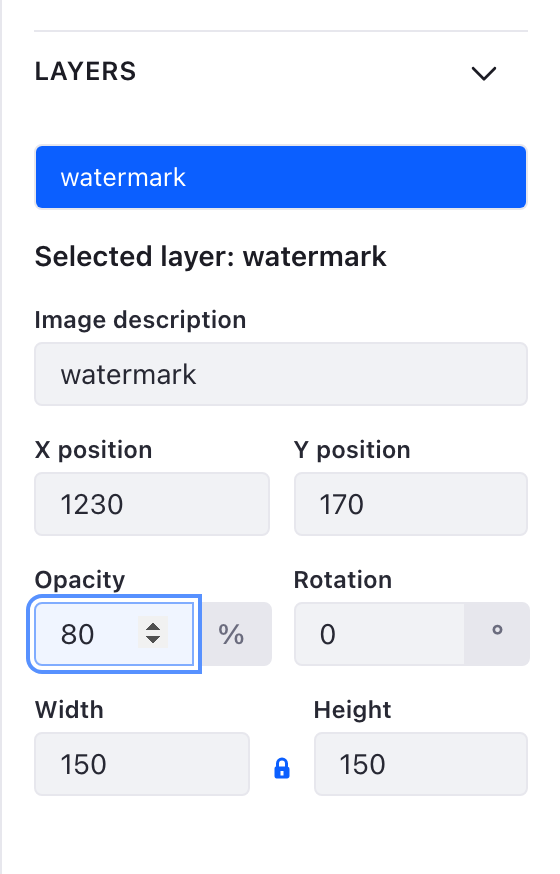
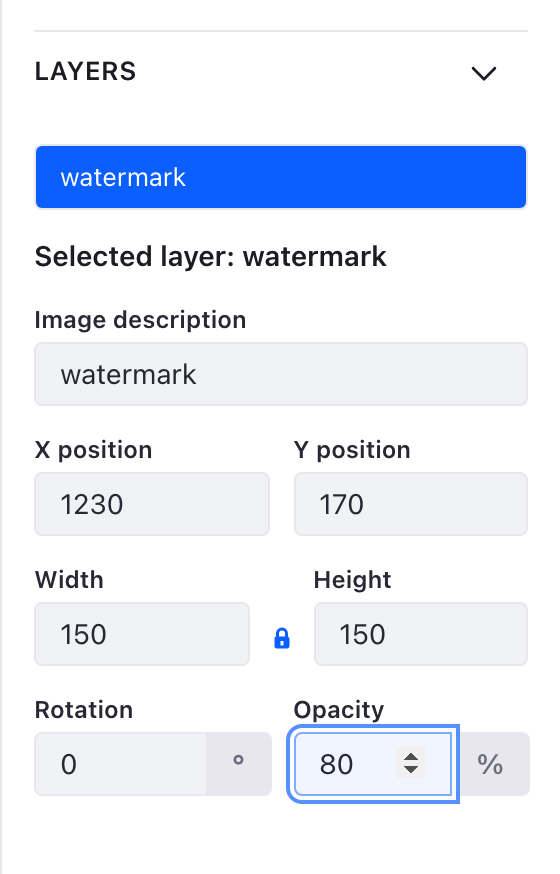
Square up the layer properties grid

diff --git a/src/components/LayerProperties.tsx b/src/components/LayerProperties.tsx
@@ -19,7 +19,7 @@ import {
 	isBoxOverlay,
 } from '../state/types';
 import {FONT_FAMILIES} from '../textFonts';
-import {ColorField, NumberField, TextField} from './fields';
+import {BorderField, ColorField, NumberField, TextField} from './fields';
 
 interface LayerPropertiesProps {
 	dispatch: (action: EditorAction) => void;
@@ -75,6 +75,20 @@ export function LayerProperties({dispatch, onAnnounce, overlay}: LayerProperties
 				: {height: value, width: other}
 		);
 	};
+
+	const pairedWithColor = hasColor(overlay) || overlay.kind === 'redact';
+
+	const opacityField = (
+		<NumberField
+			id="layer-prop-opacity"
+			label={t('opacity')}
+			max={100}
+			min={0}
+			onCommit={(opacity) => commitPatch({opacity})}
+			suffix={t('unit-percent')}
+			value={overlay.opacity ?? 100}
+		/>
+	);
 
 	return (
 		<div
@@ -179,25 +193,13 @@ export function LayerProperties({dispatch, onAnnounce, overlay}: LayerProperties
 					value={Math.round(overlay.y)}
 				/>
 
-				<NumberField
-					id="layer-prop-opacity"
-					label={t('opacity')}
-					max={100}
-					min={0}
-					onCommit={(opacity) => commitPatch({opacity})}
-					suffix={t('unit-percent')}
-					value={overlay.opacity ?? 100}
-				/>
-
-				<NumberField
-					id="layer-prop-rotation"
-					label={t('rotation-degrees')}
-					max={360}
-					min={-360}
-					onCommit={(rotation) => commitPatch({rotation})}
-					suffix={t('unit-degrees')}
-					value={overlay.rotation ?? 0}
-				/>
+				{/*
+				  * Opacity pairs with whatever cell is beside it. When the
+				  * annotation has a colour or a redaction level, that is the
+				  * one; otherwise it waits and pairs with the rotation
+				  * below, so no row of the grid is left half empty.
+				  */}
+				{pairedWithColor && opacityField}
 
 				{overlay.kind === 'sticker' && (
 					<NumberField
@@ -286,35 +288,41 @@ export function LayerProperties({dispatch, onAnnounce, overlay}: LayerProperties
 					</div>
 				)}
 
-				{hasBorder(overlay) && (
-					<>
-						<NumberField
-							id="layer-prop-border-width"
-							label={t('border-width')}
-							min={0}
-							onCommit={(borderWidth) =>
-								commitPatch({borderWidth})
-							}
-							value={overlay.borderWidth ?? 0}
-						/>
+				<NumberField
+					id="layer-prop-rotation"
+					label={t('rotation-degrees')}
+					max={360}
+					min={-360}
+					onCommit={(rotation) => commitPatch({rotation})}
+					suffix={t('unit-degrees')}
+					value={overlay.rotation ?? 0}
+				/>
 
-						<ColorField
-							id="layer-prop-border-color"
-							label={t('border-color')}
-							onCommit={(borderColor) =>
-								commitPatch({borderColor})
-							}
-							onPreview={(borderColor) =>
-								dispatch({
-									id: overlay.id,
-									patch: {borderColor},
-									transient: true,
-									type: 'update-overlay',
-								})
-							}
-							value={overlay.borderColor ?? DEFAULT_BORDER_COLOR}
-						/>
-					</>
+				{!pairedWithColor && opacityField}
+
+				{hasBorder(overlay) && (
+					<BorderField
+						colorLabel={t('border-color')}
+						colorValue={overlay.borderColor ?? DEFAULT_BORDER_COLOR}
+						id="layer-prop-border-width"
+						label={t('border')}
+						onColorCommit={(borderColor) =>
+							commitPatch({borderColor})
+						}
+						onColorPreview={(borderColor) =>
+							dispatch({
+								id: overlay.id,
+								patch: {borderColor},
+								transient: true,
+								type: 'update-overlay',
+							})
+						}
+						onWidthCommit={(borderWidth) =>
+							commitPatch({borderWidth})
+						}
+						widthLabel={t('border-width')}
+						widthValue={overlay.borderWidth ?? 0}
+					/>
 				)}
 			</div>
 		</div>

diff --git a/src/components/fields.tsx b/src/components/fields.tsx
@@ -283,3 +283,106 @@ export function CommitSlider({
 		</ClayForm.Group>
 	);
 }
+
+/**
+ * A width and a colour as one control, because a border is one decision
+ * with two halves: how thick, and what colour. They sit in a single Clay
+ * input group so the pair occupies one cell of the properties grid rather
+ * than a row of its own, and each half keeps its own accessible name.
+ */
+export function BorderField({
+	colorLabel,
+	colorValue,
+	id,
+	label,
+	onColorCommit,
+	onColorPreview,
+	onWidthCommit,
+	widthLabel,
+	widthValue,
+}: FieldProps & {
+	colorLabel: string;
+	colorValue: string;
+	onColorCommit: (value: string) => void;
+	onColorPreview: (value: string) => void;
+	onWidthCommit: (value: number) => void;
+	widthLabel: string;
+	widthValue: number;
+}) {
+	const [draft, setDraft] = useState(String(widthValue));
+
+	const dragging = useRef(false);
+
+	useEffect(() => setDraft(String(widthValue)), [widthValue]);
+
+	const commit = () => {
+		const parsed = Number.parseInt(draft, 10);
+
+		if (Number.isNaN(parsed)) {
+			setDraft(String(widthValue));
+
+			return;
+		}
+
+		onWidthCommit(Math.max(parsed, 0));
+	};
+
+	return (
+		<ClayForm.Group small>
+
+			{/*
+			  * Not a `label`: it names the pair, and a label can only point
+			  * at one control. The group carries it, and each input says
+			  * what it is for a screen reader.
+			  */}
+			<span className="editor-field-label" id={`${id}-label`}>
+				{label}
+			</span>
+
+			<div aria-labelledby={`${id}-label`} role="group">
+				<ClayInput.Group small>
+					<ClayInput.GroupItem prepend>
+						<ClayInput
+							aria-label={widthLabel}
+							id={id}
+							min={0}
+							onBlur={commit}
+							onChange={(event) => setDraft(event.target.value)}
+							onKeyDown={(event: React.KeyboardEvent) => {
+								if (event.key === 'Enter') {
+									event.preventDefault();
+									commit();
+								}
+							}}
+							sizing="sm"
+							type="number"
+							value={draft}
+						/>
+					</ClayInput.GroupItem>
+
+					<ClayInput.GroupItem append shrink>
+						<input
+							aria-label={colorLabel}
+							className="editor-border-color editor-color-input form-control form-control-sm"
+							id={`${id}-color`}
+							onBlur={() => {
+								if (dragging.current) {
+									dragging.current = false;
+
+									onColorCommit(colorValue);
+								}
+							}}
+							onChange={(event) => {
+								dragging.current = true;
+
+								onColorPreview(event.target.value);
+							}}
+							type="color"
+							value={colorValue}
+						/>
+					</ClayInput.GroupItem>
+				</ClayInput.Group>
+			</div>
+		</ClayForm.Group>
+	);
+}

diff --git a/e2e/image-annotation.spec.ts b/e2e/image-annotation.spec.ts
@@ -110,6 +110,28 @@ test('brings a picture in as an annotation', async ({page}) => {
 	await expect(picture).toHaveAttribute('width', '320');
 	await expect(picture).toHaveAttribute('height', '100');
 
+	// Rotation follows the size pair, and the border is one control with
+	// two halves, so every row of the properties grid is filled.
+
+	const order = await page
+		.locator('.editor-layer-properties .editor-panel-grid')
+		.evaluate((grid) =>
+			[...grid.children].flatMap((cell) =>
+				[...cell.querySelectorAll('label, .editor-field-label')].map(
+					(label) => label.textContent?.trim()
+				)
+			)
+		);
+
+	expect(order).toEqual([
+		'X position',
+		'Y position',
+		'Width',
+		'Height',
+		'Rotation',
+		'Opacity',
+	]);
+
 	const results = await new AxeBuilder({page})
 		.include('.modal-content')
 		.analyze();

diff --git a/src/styles.css b/src/styles.css
@@ -808,10 +808,35 @@
 	gap: 0.5rem;
 }
 
+/*
+ * The label of a control group, matching Clay's own labels inside a small
+ * form group. A group cannot use a `label`, since one label points at one
+ * control, so this names it and the group carries the association.
+ */
+
+.editor-field-label {
+	color: var(--cadmin-gray-900, var(--gray-900, #272833));
+	display: block;
+	font-size: 0.75rem;
+	font-weight: 600;
+	margin-bottom: 0.125rem;
+}
+
 .editor-color-input {
 	height: 1.9375rem;
 	padding: 0.125rem 0.25rem;
 	width: 100%;
+}
+
+/*
+ * The colour half of the border group is a swatch rather than a field, so
+ * it takes only the width it needs and lets the number have the rest.
+ */
+
+.editor-border-color {
+	min-width: 2.5rem;
+	padding: 0.125rem;
+	width: 2.5rem;
 }
 
 /* Layers */

diff --git a/website/index.html b/website/index.html
@@ -887,7 +887,7 @@
 									width="560"
 									height="932"
 									style="max-width: min(100%, 280px)"
-									alt="The Layers panel listing a star sticker, a text layer, a redaction and a rectangle, with the star sticker selected and its colour, opacity, rotation and size below."
+									alt="The Layers panel listing a star sticker, a text layer, a redaction and a rectangle, with the star sticker selected and its colour, position, opacity, size and rotation below in a two column grid."
 								/>
 							</div>
 						</figure>

diff --git a/src/i18n/en.ts b/src/i18n/en.ts
@@ -40,6 +40,7 @@ export default {
 	'aspect-lock': 'Lock aspect ratio',
 	'aspect-ratio-locked': 'Aspect ratio locked',
 	'aspect-ratio-unlocked': 'Aspect ratio unlocked',
+	border: 'Border',
 	'border-color': 'Border color',
 	'border-width': 'Border width',
 	brightness: 'Brightness',
